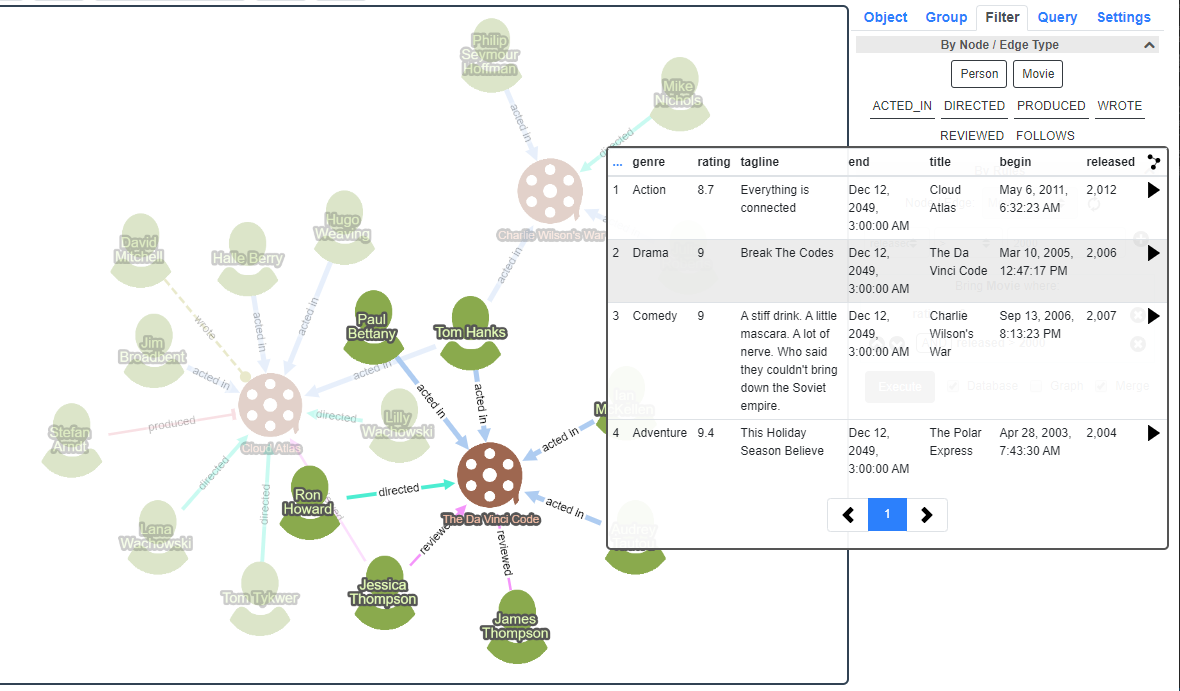
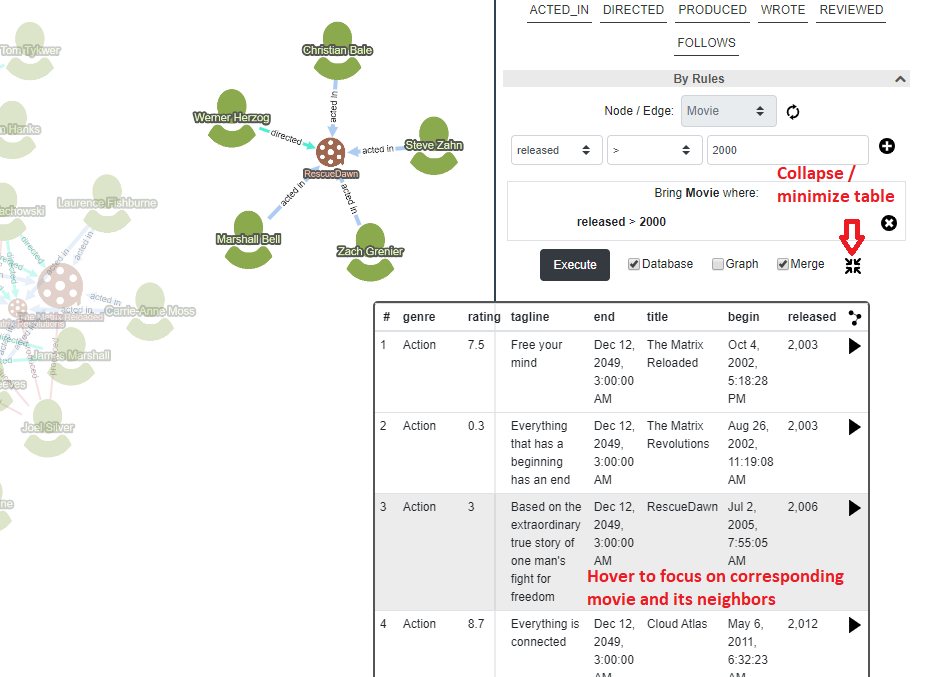
Further content

diff --git a/doc/UG.md b/doc/UG.md
@@ -40,7 +40,7 @@ A quick help is available under the Help menu to quickly enumerate some gestures
 Visu*all* has some context dependant operations per node and edge type as well as for the map. To enable the context menu of a specific map object, simply right click on that object. For instance, when you click on a movie, you'll be presented with a set of operations that are specific to movies such as "Use Movie Poster", which brings and uses the poster of the associated movie in the map from a public web service. To pop up the graph menu, right-click on the canvas, where there is no node or edge.
 
 <p align="center">
-  <img src="image/context-menu-example.png" width="240"/>
+  <img src="image/context-menu-example.png" width="280"/>
 </p>
 
 ## Toolbar
@@ -52,7 +52,7 @@ A toolbar is available right under the menubar to lists some frequently needed o
 Each node and edge has a set of properties (property-value pairs) as defined in the associated model description file of the Visu*all* application. If you click on a graph object (a node or an edge) to select it, any current selection will be lifted and the graph object that you clicked on will be selected. As a graph object is selected, its properties are shown on the right panel under the "Object" tab. Below is a map where a movie was selected and is being inspected in the Object tab in the right panel.
 
 <p align="center">
-  <img src="image/object-inspector-example.png" width="420" title="When a map object is selected, its properties are shown in the Object tab in the right panel"/>
+  <img src="image/object-inspector-example.png" width="460" title="When a map object is selected, its properties are shown in the Object tab in the right panel"/>
 </p>
 
 Other objects may be added to current selection using the Shift + click. On multiple object selection, Visu*all* determines any common properties of such objects, and displays only those common properties.
@@ -72,10 +72,10 @@ Visu*all* allows nesting of maps through groups or clusters. One way to group mo
 One important way to reduce complexity of a drawing is to filter out certain types of objects or relationships from your map. Visu*all* facilitates this by providing a button per graph object. Below is an example where a map is shown with all node and edge types (top) and the same map after `ACTED_IN` edge was filtered out (bottom).
 
 <p align="center">
-  <img src="image/filter-by-type-before.png" height="220"/>
+  <img src="image/filter-by-type-before.png" height="280"/>
 </p>
 <p align="center">
-  <img src="image/filter-by-type-after.png" height="220"/>
+  <img src="image/filter-by-type-after.png" height="280"/>
 </p>
 
 ### Filtering by rule
@@ -113,18 +113,20 @@ Before we actually run and obtain the result of the rule, we have some options w
         <img src="image/filter-by-rule-table-1.png" width="270"/>
     </p>
 
-    Assuming the user decided to display the first 3 of 4 movies in this query result by clicking on the associated icon in those rows, the canvas will display these 3 movies and people involved as follows:
+    Assuming the user decided to display only some of the movies in this query result by clicking on the associated icon in those rows, the canvas will display these movies and people involved as follows:
 
     <p align="center">
         <img src="image/filter-by-rule-table-2.png" width="600"/>
     </p>
 
-    Also notice that when the user hovers the graph icon in the table, the corresponding movie and people involved will be emphasized by ghosting the remaining map objects (movie titled "The Da Vinci Code" is emphasized in the above example as described).
+    Also notice that when the user hovers the graph icon in the table, the corresponding movie and people involved will be emphasized by ghosting the remaining map objects (movie titled "RescueDawn" is emphasized in the above example as described).
 
 
 - **Merge**: When this option is enabled, the graph currently in the canvas stays and the result is *merged* into it, without avoiding duplication. For example, if the movie "The Matrix" was already in the graph and the query result contains this movie, we do not redundantly display "The Matrix" movie as a separate node. This should better enable the user to *connect the dots* between objects under analysis.
 
 The user may change the limit for number of objects to be displayed at once (in the table or in the graph) from the Settings tab in the right panel using the option titled "Query result limit".
+
+- <img src="../src/assets/img/maximize.svg" width="16"/> / <img src="../src/assets/img/minimize.svg" width="16"/>: When the user clicks this button the table is maximized or expanded, and can be moved around. It becomes easier to see the full contents this way. Clicking the icon at the same location again minimizes or docks the table back to the panel.
 
 ## Querying
 
